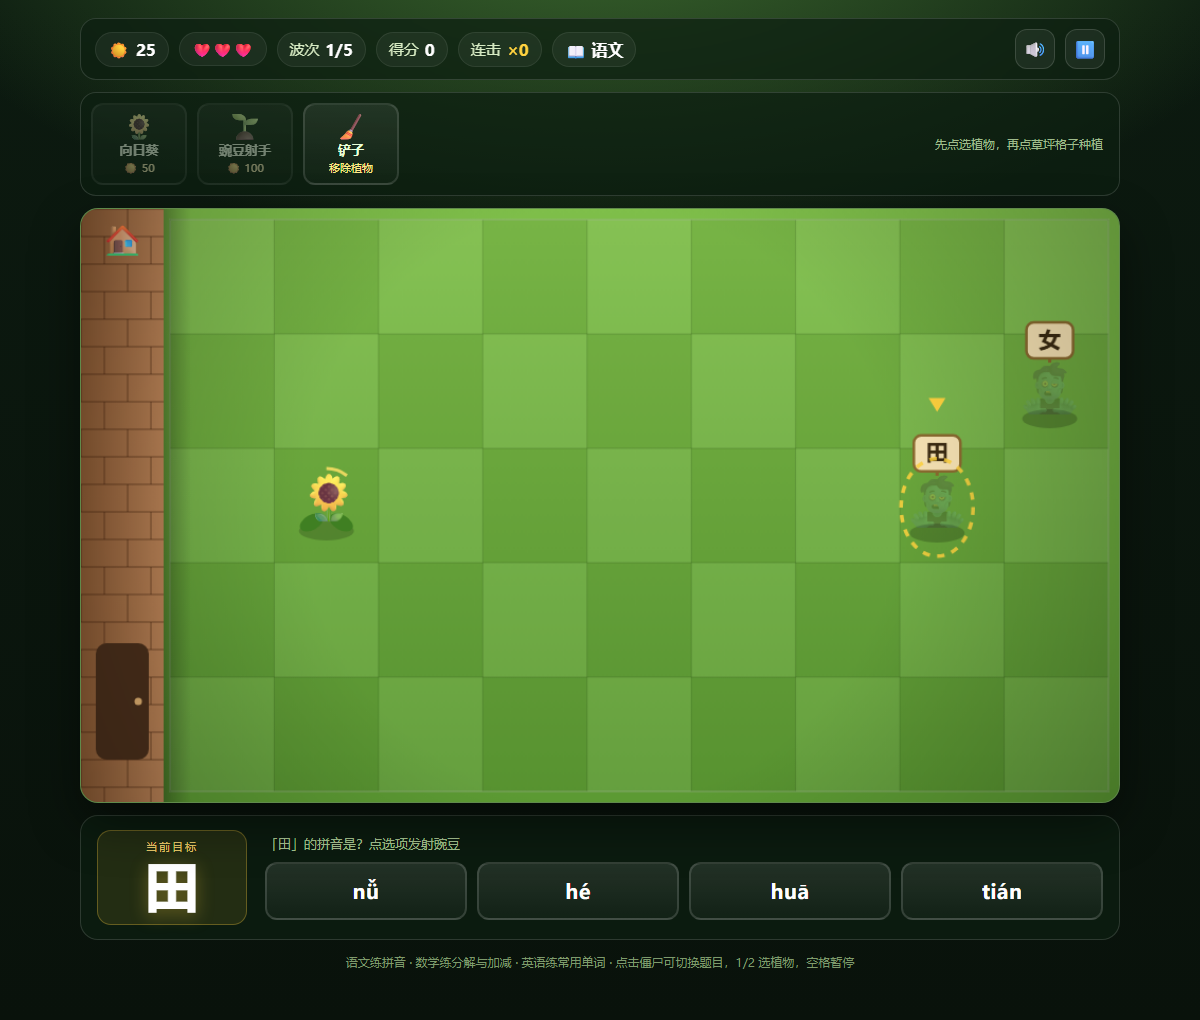
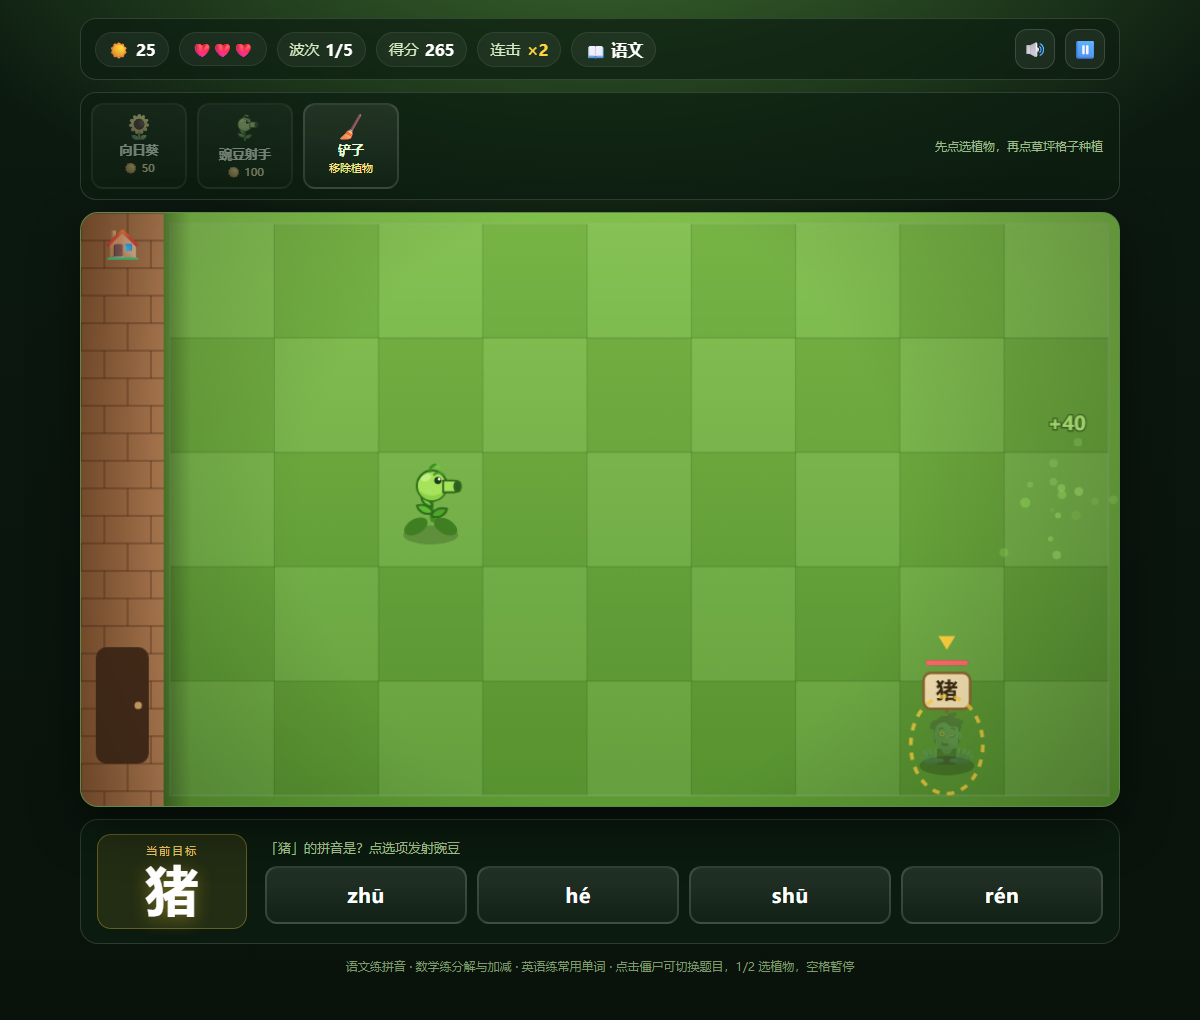
feat: 优化豌豆射手形象与战斗平衡
- 新增原创豌豆射手 SVG，种子栏与草坪共用
- 普通/快速僵尸改为两发豌豆击杀，护甲僵尸四发
- 僵尸碰到植物时双方一起爆炸消失，植物成为一次性路障
- 更新实机截图与玩法说明

diff --git a/public/game.js b/public/game.js
@@ -124,6 +124,13 @@
   canvas.width = W;
   canvas.height = H;
 
+  const plantImages = { peashooter: null };
+  (function preloadPlantImages() {
+    const img = new Image();
+    img.onload = () => { plantImages.peashooter = img; };
+    img.src = '/plants/peashooter.svg';
+  })();
+
   // ---------------- 状态 ----------------
   let words = [];
   let wordsByLevel = { 1: [], 2: [], 3: [] };
@@ -271,6 +278,11 @@
     },
     hurt() {
       this.tone(120, 0, 0.3, 'square', 0.08);
+    },
+    explode() {
+      this.tone(90, 0, 0.28, 'sawtooth', 0.09);
+      this.tone(55, 0.03, 0.32, 'square', 0.07);
+      this.tone(200, 0, 0.1, 'triangle', 0.05);
     },
     wave() {
       this.tone(392, 0, 0.12, 'triangle', 0.07);
@@ -739,14 +751,14 @@
     const center = cellCenter(spec.lane, 0);
     const base = 24 + state.wave * 3.5;
     let speed = base;
-    let hp = 1;
+    let hp = 2;
     let scale = 1;
 
     if (spec.type === 'fast') {
       speed = base * 1.55;
     } else if (spec.type === 'armor') {
       speed = base * 0.82;
-      hp = 3;
+      hp = 4;
       scale = 1.08;
     }
 
@@ -807,6 +819,7 @@
     if (state.phase === 'playing') {
       updateSpawning(dt);
       updateZombies(dt);
+      updatePlantCollisions();
       updatePlants(dt);
       updatePeas(dt);
 
@@ -855,6 +868,44 @@
         state.zombies.splice(i, 1);
         onZombieBreach(z);
       }
+    }
+  }
+
+  function updatePlantCollisions() {
+    for (let i = state.zombies.length - 1; i >= 0; i -= 1) {
+      const z = state.zombies[i];
+      if (z.dead) continue;
+
+      let plantIndex = -1;
+      let bestDist = Infinity;
+      for (let j = 0; j < state.plants.length; j += 1) {
+        const p = state.plants[j];
+        if (p.row !== z.row) continue;
+        const dist = Math.abs(p.x - z.x);
+        if (dist <= 30 && dist < bestDist) {
+          bestDist = dist;
+          plantIndex = j;
+        }
+      }
+      if (plantIndex === -1) continue;
+
+      const plant = state.plants[plantIndex];
+      state.plants.splice(plantIndex, 1);
+      state.zombies.splice(i, 1);
+
+      AudioFX.explode();
+      addParticles(plant.x, plant.y - 6, '#ffd23f', 16);
+      addParticles(z.x, z.y - 10, '#8ee04a', 12);
+      floater((plant.x + z.x) / 2, plant.y - 46, '💥 爆炸', '#ffd23f', 1.2, true);
+      state.shake = Math.max(state.shake, 6);
+
+      if (state.activeId === z.id) {
+        state.activeId = null;
+        state.question = null;
+        state.questionLocked = false;
+        renderQuiz();
+      }
+      updateHUD();
     }
   }
 
@@ -1112,7 +1163,11 @@
       ctx.fill();
 
       const sway = Math.sin(state.time * 2 + p.sway) * 2.2;
-      drawEmoji(PLANT_TYPES[p.type].emoji, p.x + sway, p.y - 4, 46);
+      if (p.type === 'peashooter' && plantImages.peashooter) {
+        ctx.drawImage(plantImages.peashooter, p.x - 31 + sway, p.y - 46, 62, 62);
+      } else {
+        drawEmoji(PLANT_TYPES[p.type].emoji, p.x + sway, p.y - 4, 46);
+      }
 
       if (p.type === 'sunflower') {
         const ratio = Math.max(0, Math.min(1, p.timer / SUNFLOWER_INTERVAL));

diff --git a/public/index.html b/public/index.html
@@ -27,7 +27,7 @@
         <span class="seed-cost">☀ 50</span>
       </button>
       <button class="seed" data-seed="peashooter" type="button">
-        <span class="seed-emoji">🌱</span>
+        <img class="seed-img" src="/plants/peashooter.svg" alt="" />
         <span class="seed-name">豌豆射手</span>
         <span class="seed-cost">☀ 100</span>
       </button>

diff --git a/public/style.css b/public/style.css
@@ -148,6 +148,12 @@ body {
   line-height: 1;
 }
 
+.seed-img {
+  width: 30px;
+  height: 30px;
+  display: block;
+}
+
 .seed-name {
   font-size: 13px;
   font-weight: 600;

diff --git a/README.md b/README.md
@@ -43,8 +43,9 @@
 1. 选择科目后，僵尸会从右侧沿 5 条草地推进，头顶举着当前题目。
 2. 面板弹出选项，**答对**即天降光束秒杀最近的僵尸，并获得得分和阳光。
 3. **答错**会扣阳光、重置连击，并让僵尸短暂加速，选项会被禁用。
-4. 用阳光种植：🌻 向日葵（50，每 7 秒产 25 阳光）、🌱 豌豆射手（100，自动攻击同排僵尸）。
-5. 每局 5 波、3 条命；僵尸走到房子会掉命，漏完即失败，撑过第 5 波通关。
+4. 用阳光种植：🌻 向日葵（50，每 7 秒产 25 阳光）、🌱 豌豆射手（100，自动攻击同排僵尸，普通僵尸需两发）。
+5. 僵尸碰到植物会与植物一起爆炸消失，植物可以当一次性的路障。
+6. 每局 5 波、3 条命；僵尸走到房子会掉命，漏完即失败，撑过第 5 波通关。
 
 ### 操作
 
@@ -59,6 +60,7 @@
 
 - 三科题库：拼音 90 字、数学按数域自动出题、英语 31 个生活单词
 - 数学题程序化生成，同一关每次不重样
+- 僵尸与植物碰撞会同归于尽，摆植物也是一次防守决策
 - 连击加成：答得越快越准，单题得分越高
 - 僵尸分普通、快速、护甲三类，波次越高越强
 - 纯程序化音效（WebAudio），无外部素材依赖
